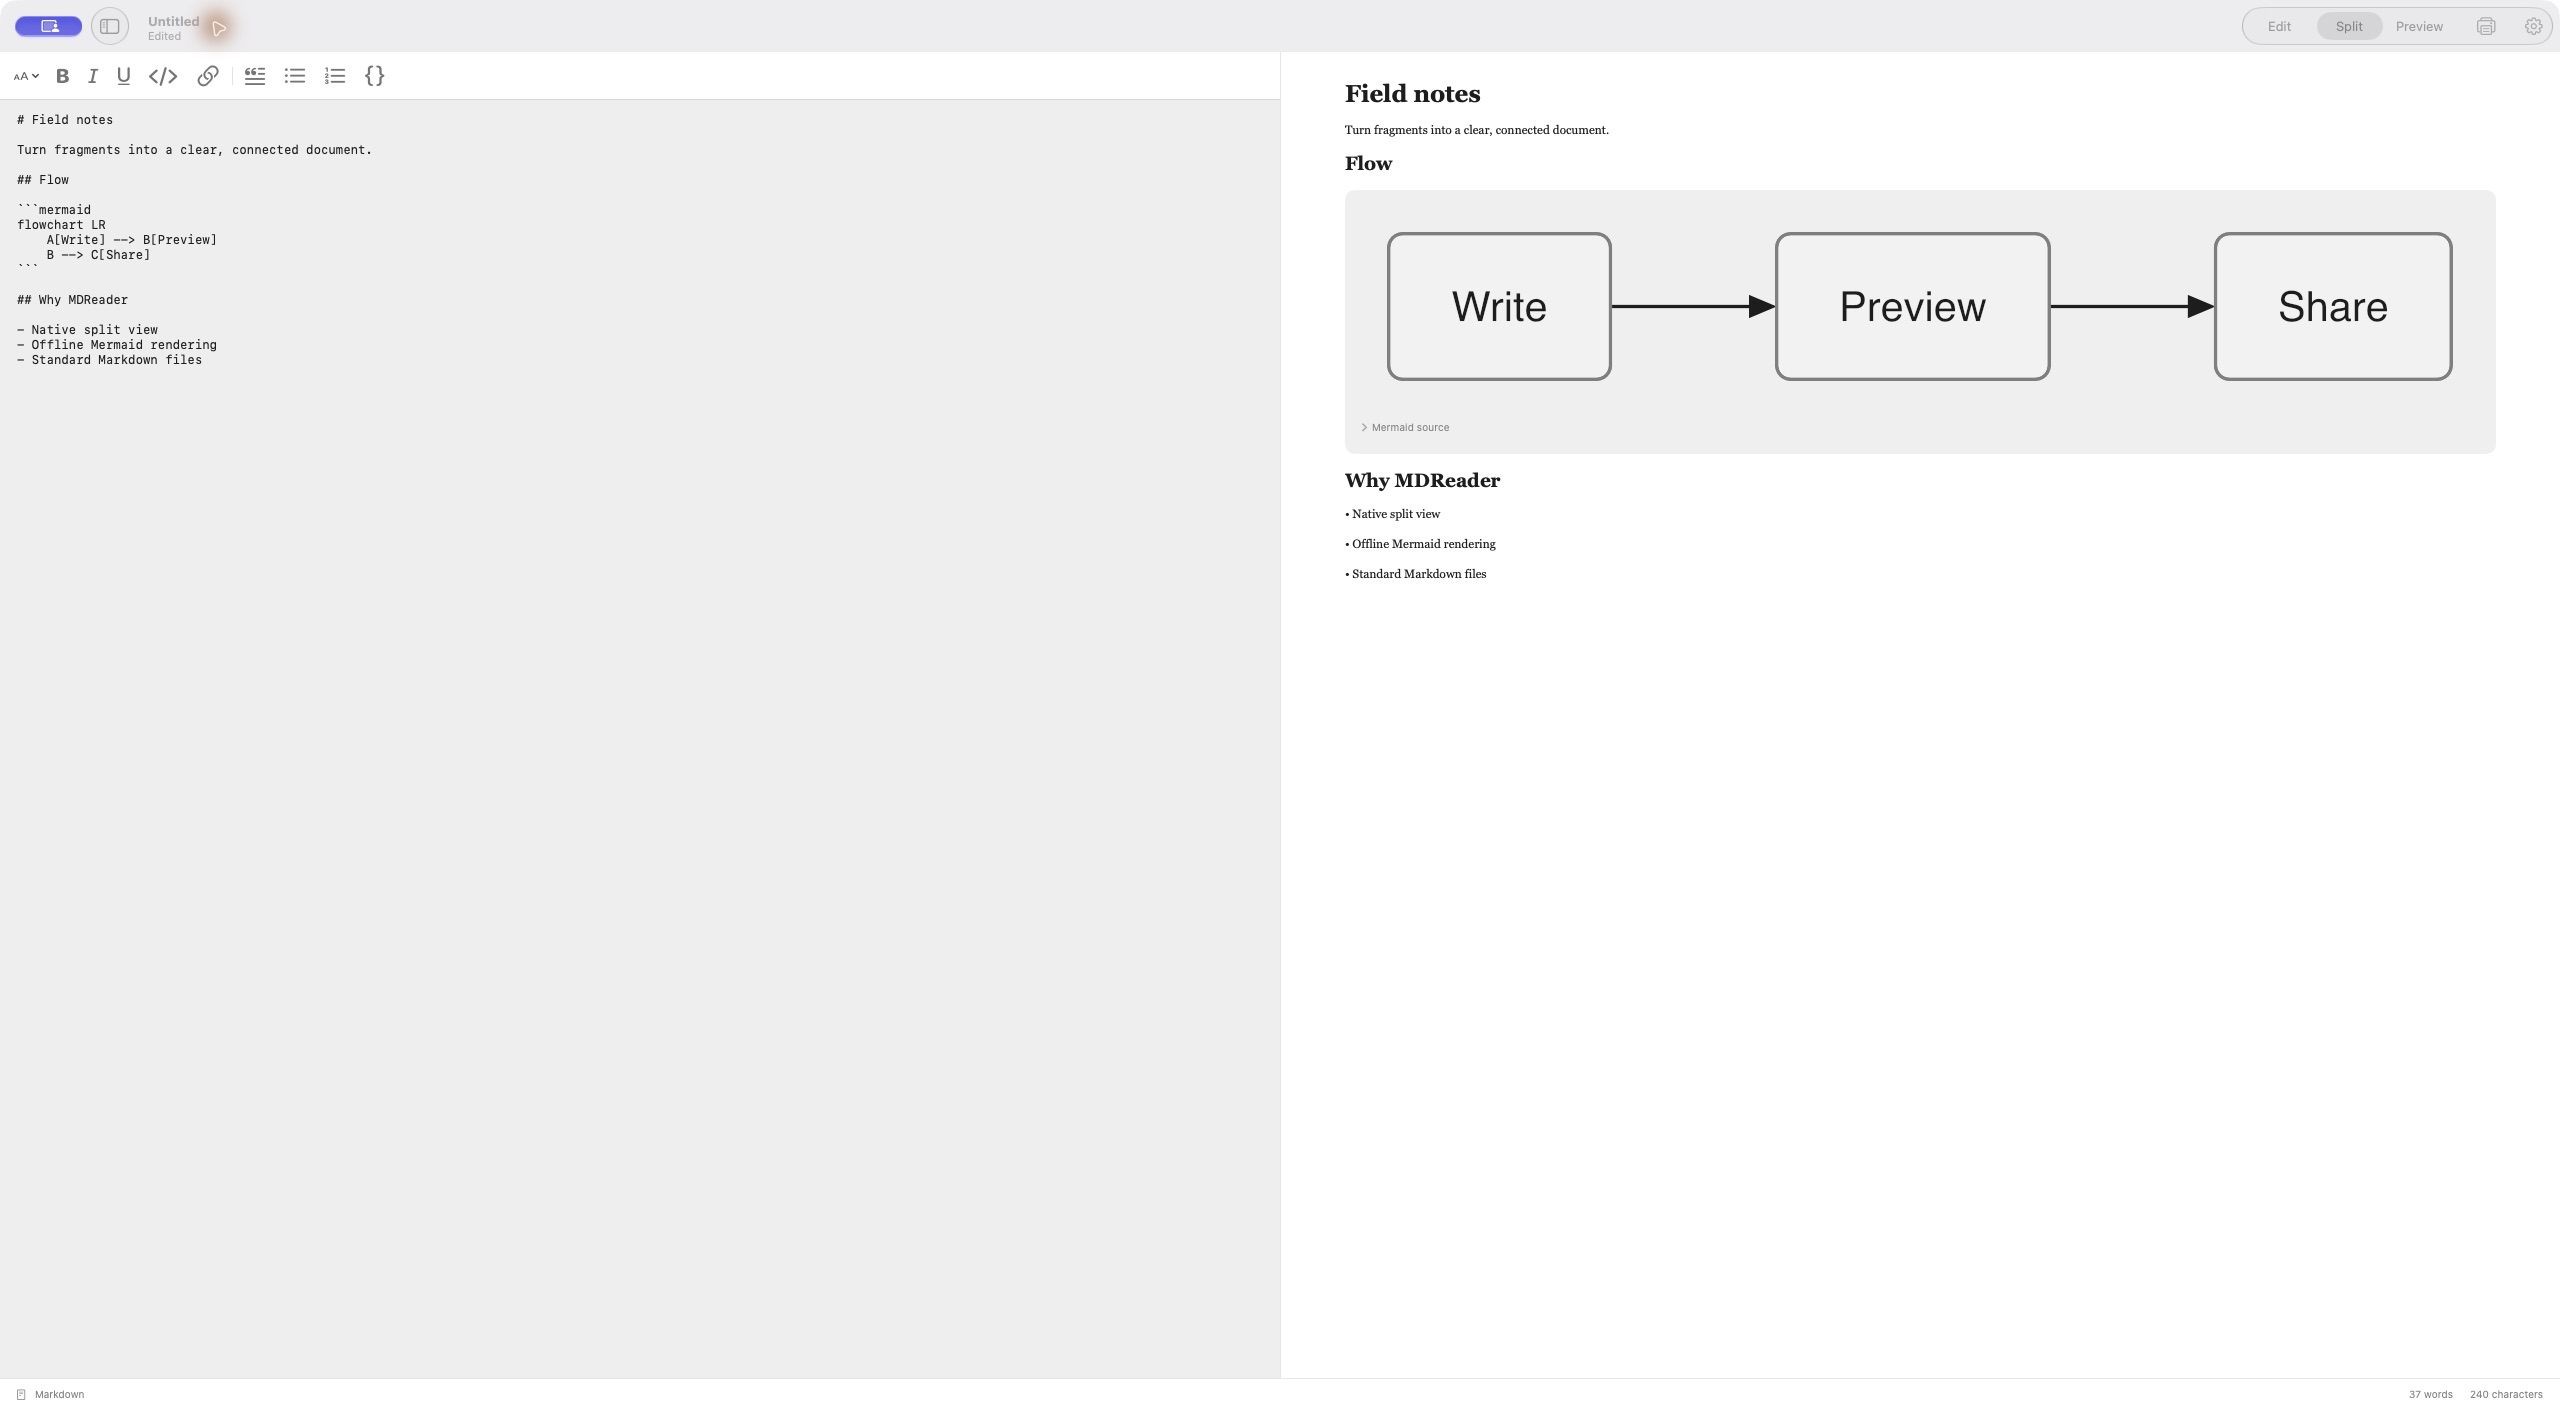
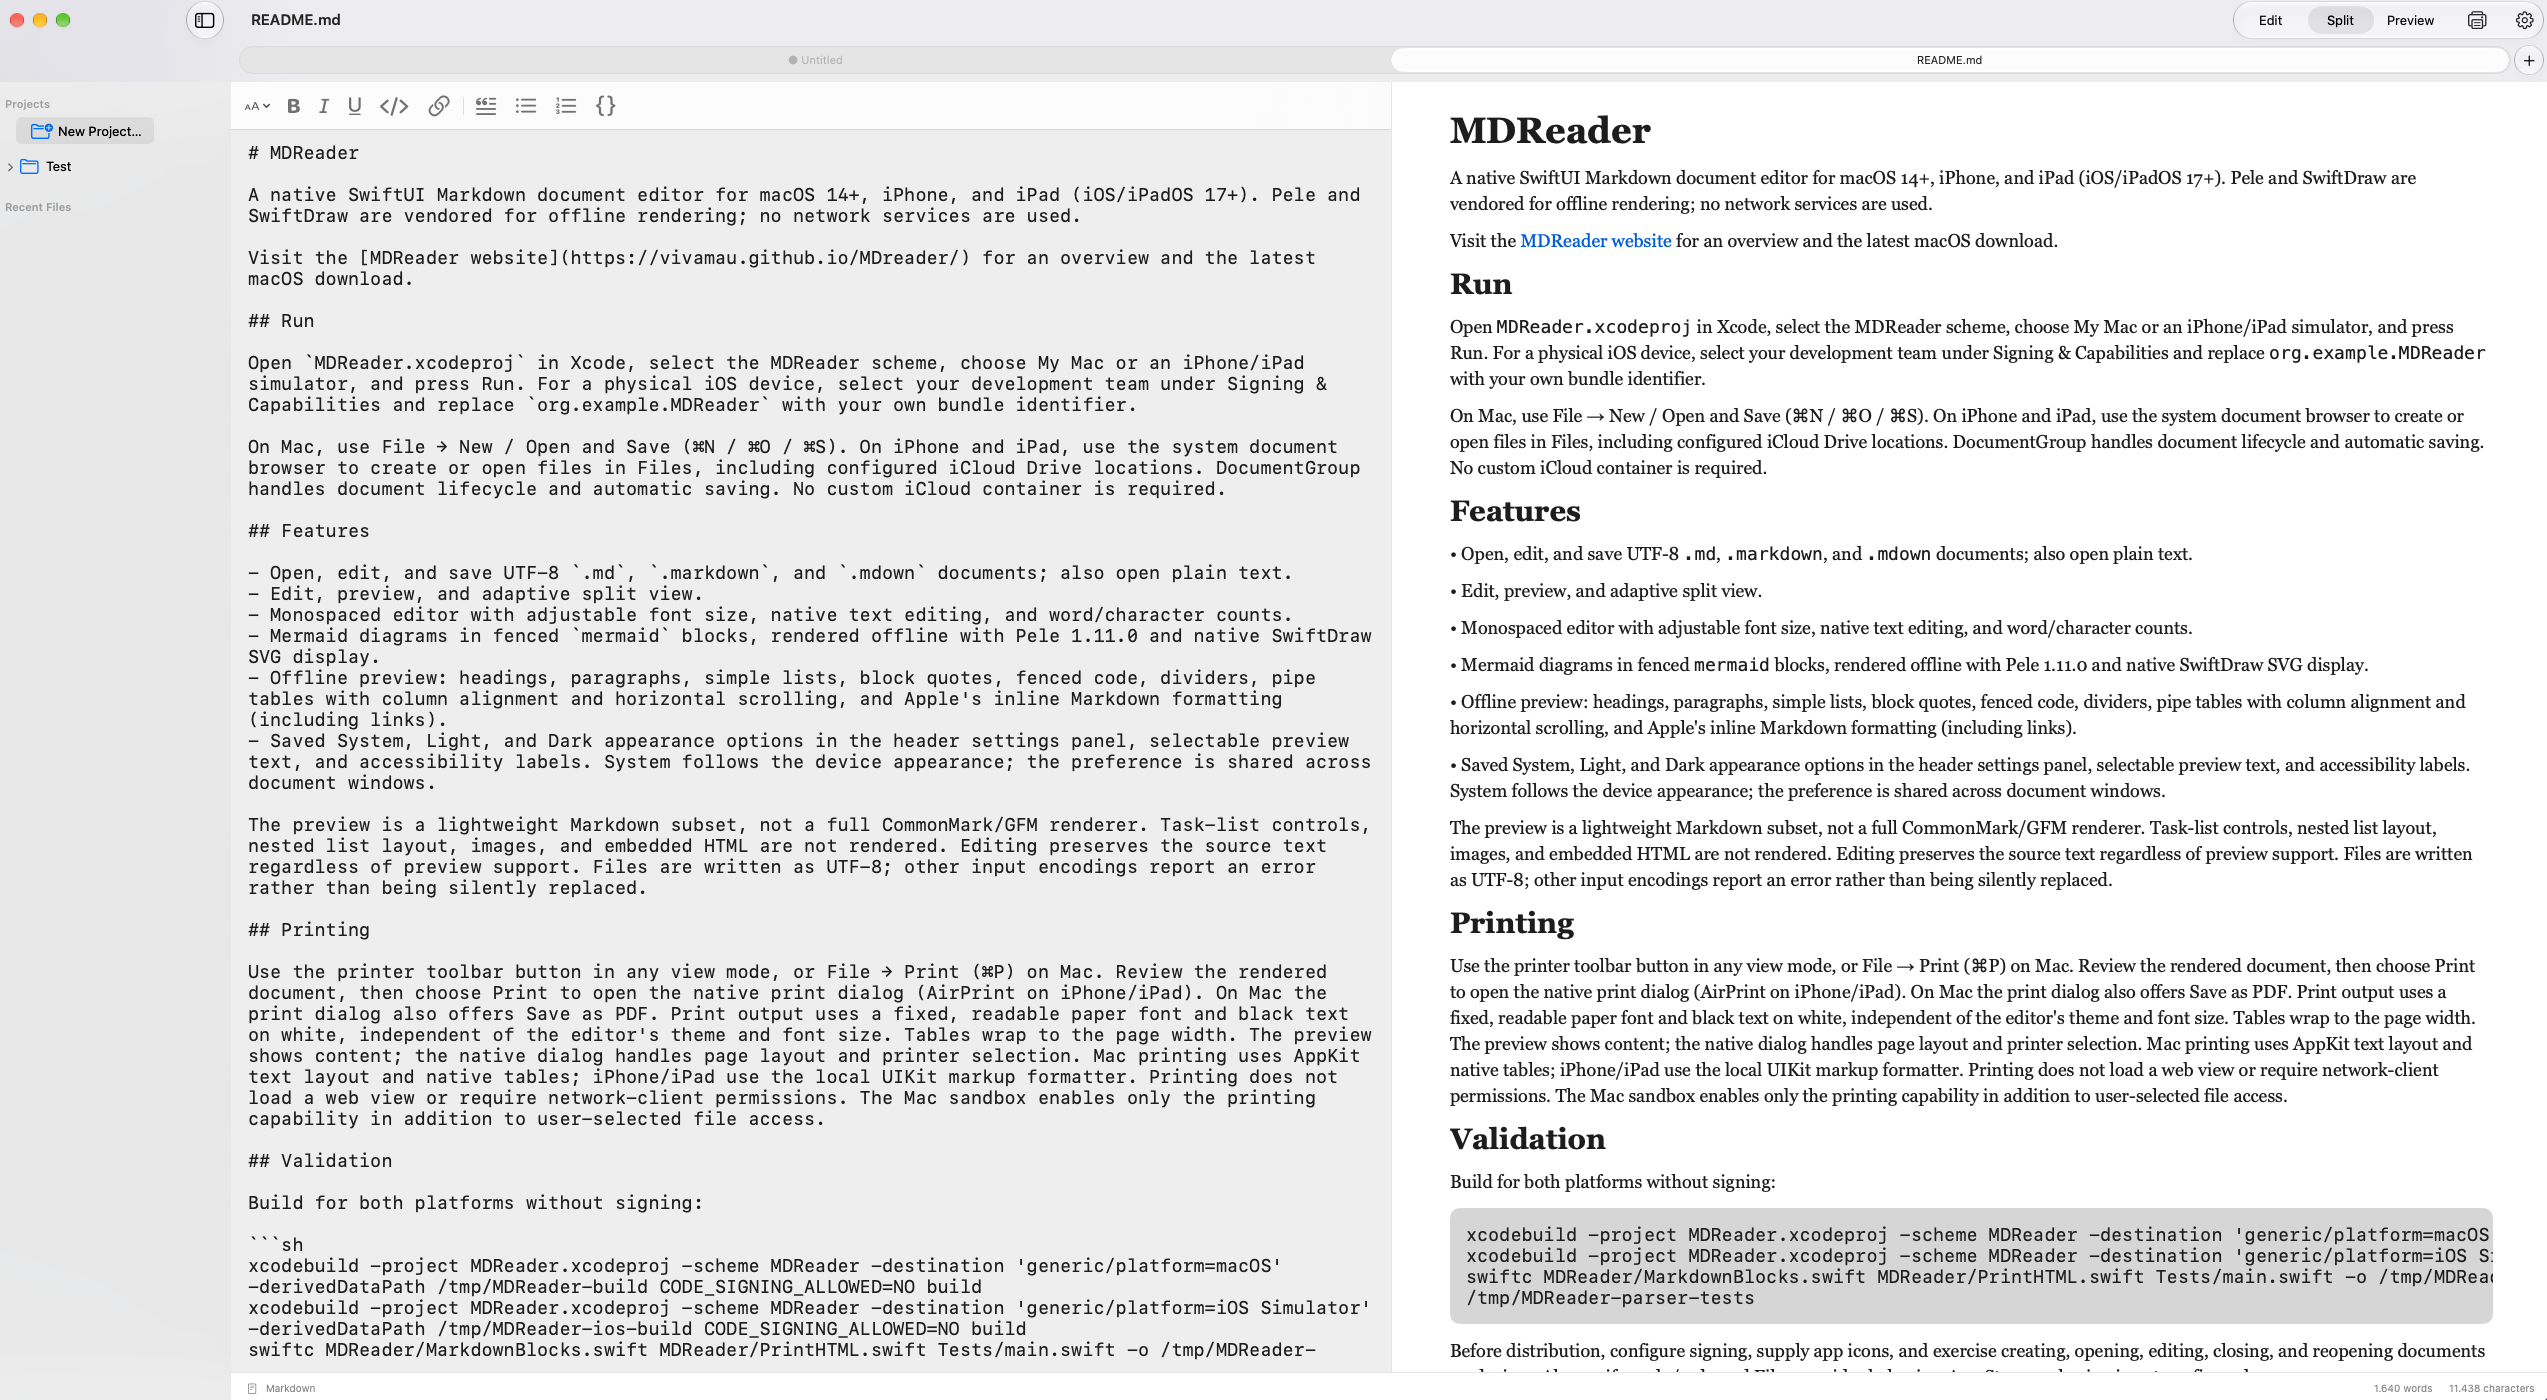
Use supplied MDReader screenshot on website

diff --git a/docs/index.html b/docs/index.html
@@ -43,7 +43,7 @@
       </div>
 
       <figure class="app-stage reveal">
-        <img class="app-screenshot" src="assets/mdreader-app.png" alt="MDReader 0.4.0 showing the Markdown formatting toolbar, source editor, and a rendered Mermaid diagram in Split view">
+        <img class="app-screenshot" src="assets/mdreader-app.png" alt="MDReader showing README.md in Split view with the Library sidebar, Markdown source editor, formatting toolbar, and rendered preview">
         <div class="stage-caption"><span>01</span> Edit and preview, side by side</div>
       </figure>
     </section>
